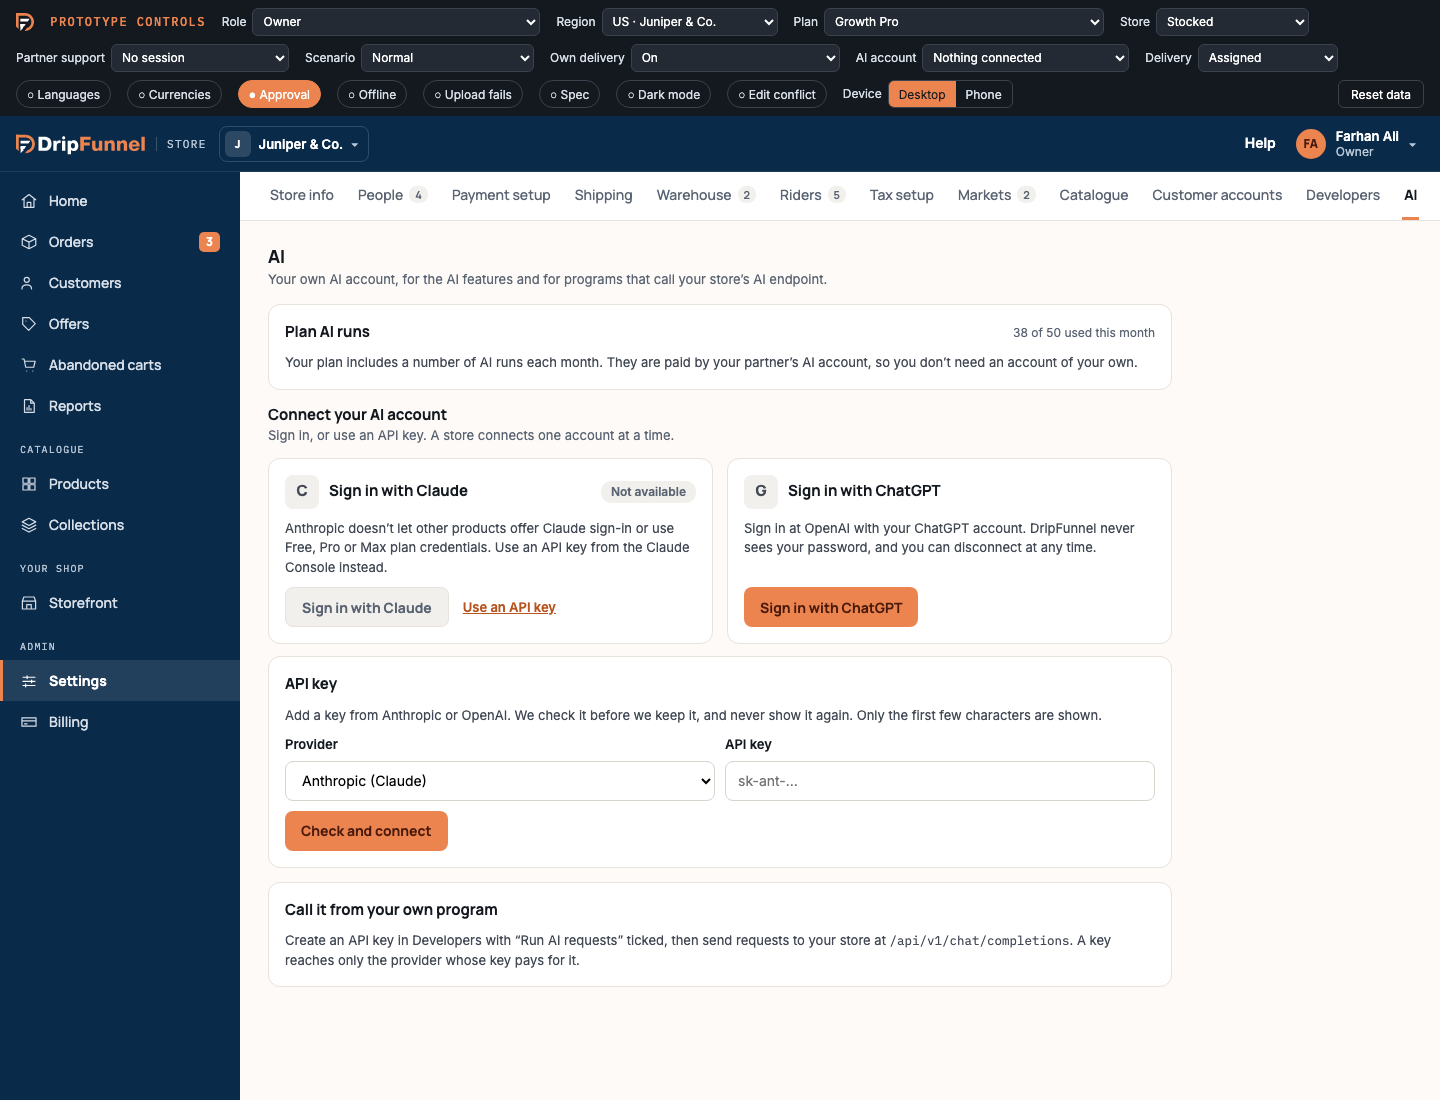
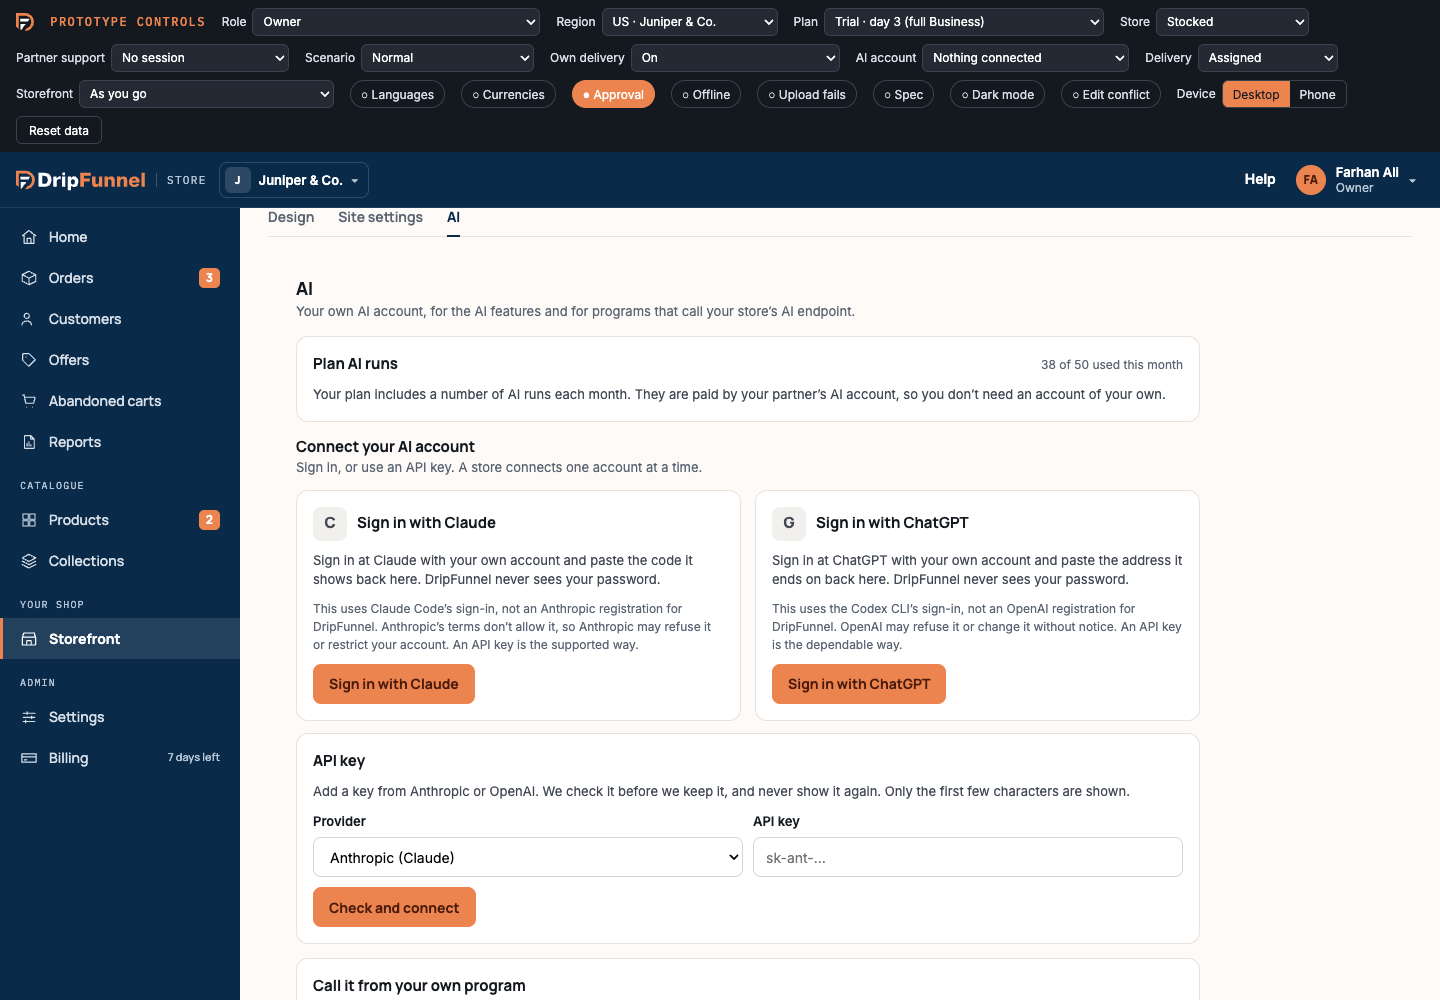
#950 Review fix: the store's sign-in cards show the provider-terms risk before the button

diff --git a/designs/SetAi.dc.html b/designs/SetAi.dc.html
@@ -42,6 +42,7 @@
           <div style="display:flex;align-items:center;gap:10px;flex-wrap:wrap;"><span aria-hidden="true" style="{{ S.chip }}">C</span><strong style="{{ S.t }}flex:1;">Sign in with Claude</strong><sc-if value="{{ gpt.off }}" hint-placeholder-val="{{ false }}"><span style="{{ S.badge }}background:var(--sunk,#F2F0EC);color:var(--muted,#5A6472);">Not available</span></sc-if></div>
           <sc-if value="{{ gpt.off }}" hint-placeholder-val="{{ false }}"><span style="font-size:13px;color:var(--text2,#434A55);flex:1;">Sign-in isn’t available here right now. Use an API key.</span></sc-if>
           <sc-if value="{{ gpt.ready }}" hint-placeholder-val="{{ true }}"><span style="font-size:13px;color:var(--text2,#434A55);flex:1;">Sign in at Claude with your own account and paste the code it shows back here. DripFunnel never sees your password.</span></sc-if>
+          <sc-if value="{{ gpt.ready }}" hint-placeholder-val="{{ true }}"><span style="font-size:12px;color:var(--muted,#5A6472);flex:1;">This uses Claude Code’s sign-in, not an Anthropic registration for DripFunnel. Anthropic’s terms don’t allow it, so Anthropic may refuse it or restrict your account. An API key is the supported way.</span></sc-if>
           <div style="display:flex;align-items:center;gap:14px;flex-wrap:wrap;"><button onClick="{{ a.signinClaude }}" disabled="{{ gpt.dis }}" aria-disabled="{{ gpt.dis }}" style="{{ gpt.btnStyle }}">{{ gpt.labelClaude }}</button><sc-if value="{{ gpt.off }}" hint-placeholder-val="{{ false }}"><button onClick="{{ a.useKey }}" style="{{ S.link }}">Use an API key</button></sc-if></div>
         </div>
 
@@ -49,6 +50,7 @@
           <div style="display:flex;align-items:center;gap:10px;flex-wrap:wrap;"><span aria-hidden="true" style="{{ S.chip }}">G</span><strong style="{{ S.t }}flex:1;">Sign in with ChatGPT</strong><sc-if value="{{ gpt.off }}" hint-placeholder-val="{{ false }}"><span style="{{ S.badge }}background:var(--sunk,#F2F0EC);color:var(--muted,#5A6472);">Not set up</span></sc-if></div>
           <sc-if value="{{ gpt.off }}" hint-placeholder-val="{{ false }}"><span style="font-size:13px;color:var(--text2,#434A55);flex:1;">Sign-in isn’t available here right now. Use an API key.</span></sc-if>
           <sc-if value="{{ gpt.ready }}" hint-placeholder-val="{{ true }}"><span style="font-size:13px;color:var(--text2,#434A55);flex:1;">Sign in at ChatGPT with your own account and paste the address it ends on back here. DripFunnel never sees your password.</span></sc-if>
+          <sc-if value="{{ gpt.ready }}" hint-placeholder-val="{{ true }}"><span style="font-size:12px;color:var(--muted,#5A6472);flex:1;">This uses the Codex CLI’s sign-in, not an OpenAI registration for DripFunnel. OpenAI may refuse it or change it without notice. An API key is the dependable way.</span></sc-if>
           <sc-if value="{{ gpt.btn }}" hint-placeholder-val="{{ true }}"><div><button onClick="{{ a.signin }}" disabled="{{ gpt.dis }}" aria-disabled="{{ gpt.dis }}" style="{{ gpt.btnStyle }}">{{ gpt.label }}</button></div></sc-if>
         </div>
       </div>

diff --git a/apps/ui/store/src/features/storefront/AiTab.tsx b/apps/ui/store/src/features/storefront/AiTab.tsx
@@ -183,6 +183,7 @@ const AiAccount = ({ initial, signIn, runs, read, canEdit, onToast }: AiAccountP
               {!signIn.anthropic && <span className="df-ops-status">{words.signIn.badge}</span>}
             </div>
             <p className="df-set-text">{signIn.anthropic ? words.claude.ready : words.signIn.off}</p>
+            {signIn.anthropic && <p className="df-set-text">{words.claude.risk}</p>}
             <div className="df-dev-buttons">
               <button type="button" className="df-button df-button--primary" disabled={signInBusy || !signIn.anthropic} onClick={() => goToProvider('anthropic')}>
                 {busy === 'signin' && pending === null ? words.signIn.opening : words.claude.go}
@@ -195,6 +196,7 @@ const AiAccount = ({ initial, signIn, runs, read, canEdit, onToast }: AiAccountP
               {!signIn.openai && <span className="df-ops-status">{words.signIn.badge}</span>}
             </div>
             <p className="df-set-text">{signIn.openai ? words.chatgpt.ready : words.signIn.off}</p>
+            {signIn.openai && <p className="df-set-text">{words.chatgpt.risk}</p>}
             <div className="df-dev-buttons">
               <button type="button" className="df-button df-button--primary" disabled={signInBusy || !signIn.openai} onClick={() => goToProvider('openai')}>
                 {busy === 'signin' && pending === null ? words.signIn.opening : words.chatgpt.go}

diff --git a/apps/ui/store/src/features/storefront/ai.test.tsx b/apps/ui/store/src/features/storefront/ai.test.tsx
@@ -193,6 +193,15 @@ describe('Storefront › AI', () => {
     expect((within(chatgpt).getByRole('button', { name: w.chatgpt.go }) as HTMLButtonElement).disabled).toBe(false)
   })
 
+  it("shows each provider's terms risk before the sign-in is used, and none where it is off", async () => {
+    ai.loadStoreAiAccount.mockResolvedValue(null)
+    ai.loadStoreAiSignIn.mockResolvedValue({ anthropic: true, openai: false })
+    await show()
+    expect(within(screen.getByRole('region', { name: w.claude.title })).getByText(w.claude.risk)).toBeTruthy()
+    expect(screen.queryByText(w.chatgpt.risk)).toBeNull()
+    expect(ai.beginStoreAiOauth).not.toHaveBeenCalled()
+  })
+
   it('says so and disables a sign-in the API does not offer', async () => {
     ai.loadStoreAiAccount.mockResolvedValue(null)
     ai.loadStoreAiSignIn.mockResolvedValue({ anthropic: true, openai: false })

diff --git a/designs/design.md b/designs/design.md
@@ -59,7 +59,7 @@ Every child receives a single `app` prop (see §3).
 | Storefront | `PortalStorefront` | Overview (live preview) · template gallery (6 templates + start from scratch, each with a demo) · full-screen AI studio (chat left, live preview right, undo, publish) · Site settings tab (domains + DNS, search & sharing, AI usage, version history). Studio's Plan A parts (#487): images and a website in the chat, Edit text in every language, the page picker listing every page, "Opening your studio…" over the current preview, the queue, "Finishing your previous change…", "Checking your change…", the session ended state, Open preview with End all preview links (its toast names no host: PREVIEW §1 says `{slug}-preview.my-store.one`), and the publish gate's "Checking your site…", refusal (with Publish everything before this change) and rollback, each under `?state=` (§2). Not drawn yet, decided 2026-10-08: a "Your brand" step before the gallery, Pages and Journal tabs (`StorefrontContent`) and a catalogue "Publish now" bar (FIRST-RELEASE §14) |
 | Pages and Journal | `StorefrontContent` | Content pages (about, FAQ, contact, lookbook) and blog posts: list, block editor, search preview, publish, schedule, delete (#286) |
 | Settings | `PortalSettings` | Tab host → `SetStore`, `SetTeam`, `SetOps`, `CatSettings`, `SetMarkets`, `SetAccess`, `SetDev`, `SetAi`, `StoreActivity`, `SetRiders`, `SetOwnDelivery` |
-| Storefront › AI | `SetAi` (the Owner-only AI tab of `PortalStorefront`) | The store's own AI account (#950), one account at a time. Nothing connected: three cards, **Sign in with Claude** and **Sign in with ChatGPT** (each opens the provider in a new tab; a card then takes the pasted code or address; with sign-in switched off both read "Not available" with a *Use an API key* link that focuses the key field) and **API key** (the existing checked-then-masked form). Sign-in states: unavailable, opening ("Opening…"), the paste card ("Finish signing in with {provider}", Code or address, Finish connection, Cancel), connecting ("Connecting…"), wrong code, expired (10 minutes), declined, exchange failed (the last two with *Try again*), connected (account email or "{provider} account", Working / Needs reconnecting / Rejected, signed in, last checked, "Owned by your store", Reconnect, Test, Disconnect with its confirm), skeleton. A connected key or sign-in shows the switch "Use my own AI account when the plan's runs are used up" (off by default), plan runs used and the `/api/v1` hint. Owner only (a Manager's Storefront has no AI tab); a past-due store sees it read-only. Reach each state with the **AI account** control in the prototype bar or `?ai=none\|off\|opening\|paste\|finish\|badcode\|expiredcode\|declined\|failed\|ok\|nolabel\|expired\|rejected\|loading\|key`. Screenshots: `screenshots/store-settings-ai-*.png` (key), `screenshots/store-settings-ai-oauth-*.png` (sign-in, 1440 and 390) |
+| Storefront › AI | `SetAi` (the Owner-only AI tab of `PortalStorefront`) | The store's own AI account (#950), one account at a time. Nothing connected: three cards, **Sign in with Claude** and **Sign in with ChatGPT** (each says, before the button, that it uses that provider's own CLI sign-in and the provider may refuse it or restrict the account; each opens the provider in a new tab; a card then takes the pasted code or address; with sign-in switched off both read "Not available" with a *Use an API key* link that focuses the key field) and **API key** (the existing checked-then-masked form). Sign-in states: unavailable, opening ("Opening…"), the paste card ("Finish signing in with {provider}", Code or address, Finish connection, Cancel), connecting ("Connecting…"), wrong code, expired (10 minutes), declined, exchange failed (the last two with *Try again*), connected (account email or "{provider} account", Working / Needs reconnecting / Rejected, signed in, last checked, "Owned by your store", Reconnect, Test, Disconnect with its confirm), skeleton. A connected key or sign-in shows the switch "Use my own AI account when the plan's runs are used up" (off by default), plan runs used and the `/api/v1` hint. Owner only (a Manager's Storefront has no AI tab); a past-due store sees it read-only. Reach each state with the **AI account** control in the prototype bar or `?ai=none\|off\|opening\|paste\|finish\|badcode\|expiredcode\|declined\|failed\|ok\|nolabel\|expired\|rejected\|loading\|key`. Screenshots: `screenshots/store-settings-ai-*.png` (key), `screenshots/store-settings-ai-oauth-*.png` (sign-in, 1440 and 390) |
 | Settings › Riders | `SetRiders` | Own riders (Owner): list with status, online now, current delivery, done; invite (name + mobile, text preview), resend, suspend, restore, remove, export, erase; refusals while carrying a parcel; APK link; empty, limit, loading, error, not switched on |
 | Shipping › Own delivery, Warehouse delivery fields | `SetOwnDelivery` | `mode="shipping"`: on/off with checklist, offer when placed / when ready, alert minutes 1–30. `mode="warehouse"`: per own warehouse — map pin, delivers on/off, area km, rider km, fee, validation |
 | Order › Delivery panel | `OrderDelivery` | Mounted in `PortalOrders` detail for own-delivery orders (never for suppliers): every state, rider card, last position, actions, steps. Orders list gains *Own delivery* and *Delivery needs you* chips and a delivery line per row |
